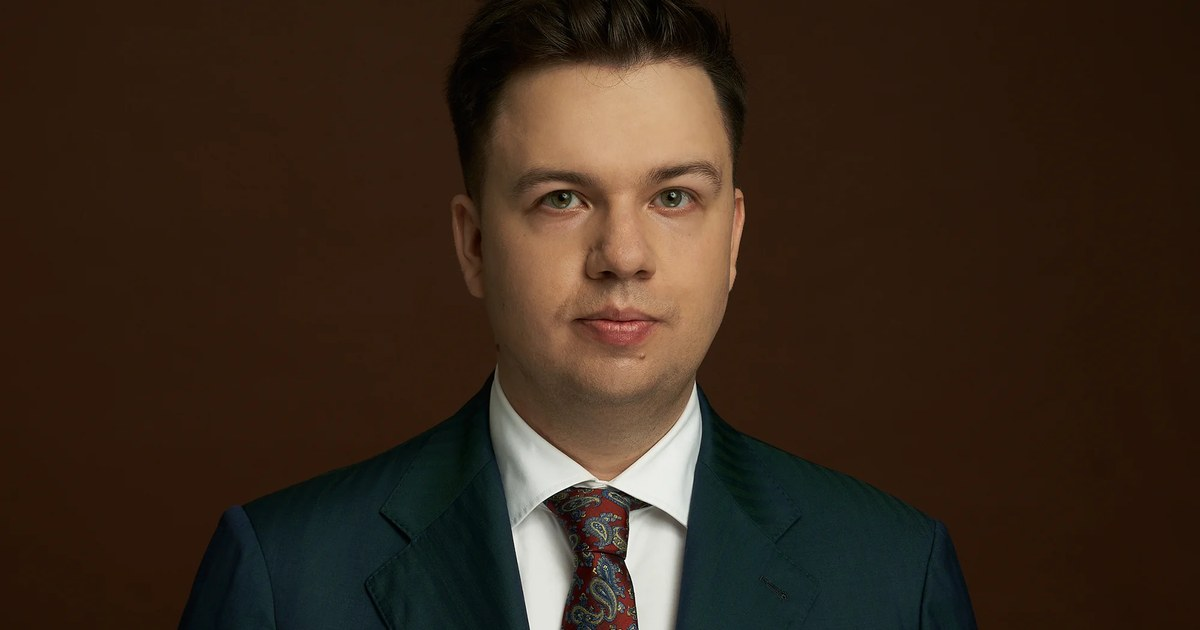
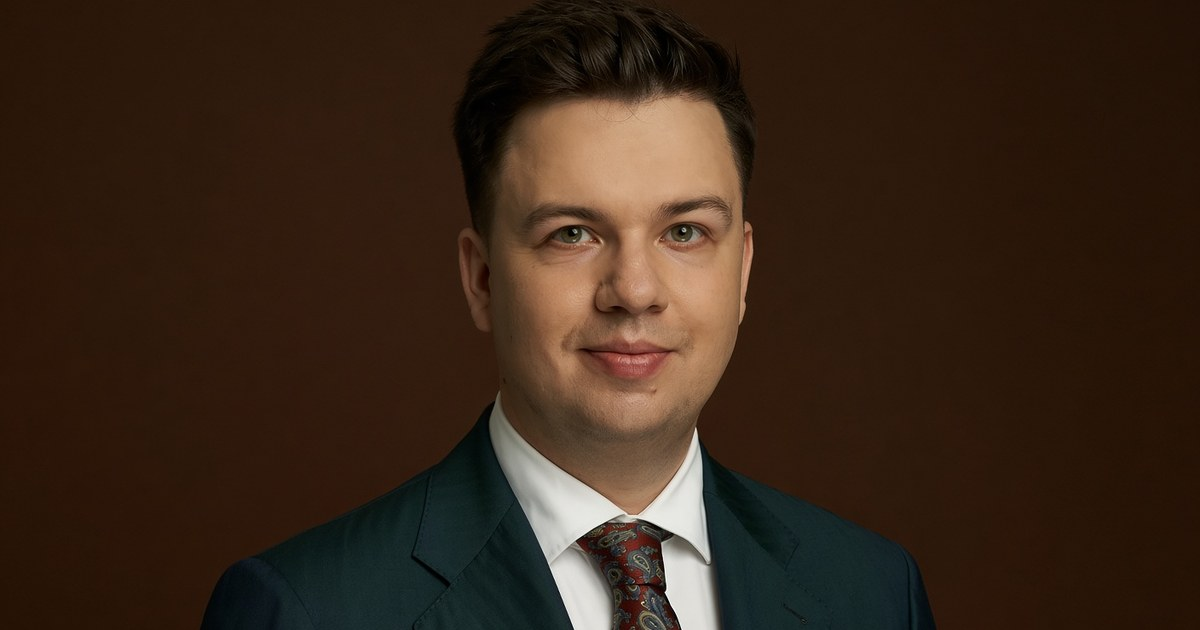
design: nowy portret w hero

Changed region(s): [[0.1233, 0.0, 0.8325, 1.0], [0.3083, 0.9651, 0.3392, 1.0]]

diff --git a/index.html b/index.html
@@ -22,7 +22,7 @@
   <link rel="preconnect" href="https://fonts.googleapis.com">
   <link rel="preconnect" href="https://fonts.gstatic.com" crossorigin>
   <link href="https://fonts.googleapis.com/css2?family=Cinzel:wght@400;500&family=Cormorant+Garamond:ital,wght@0,500;0,600;1,500&family=Inter:wght@400;500;600&display=swap" rel="stylesheet">
-  <link rel="stylesheet" href="/css/style.css?v=20260821f">
+  <link rel="stylesheet" href="/css/style.css?v=20260822">
 
   <script type="application/ld+json">
   {
@@ -86,7 +86,7 @@
     <section class="hero">
       <span class="hero__side" aria-hidden="true">Kancelaria Adwokacka · MMXXVI</span>
       <div class="hero__figure">
-        <img src="/assets/Filip-Konrad-kadr-1.webp" alt="Adwokat Konrad Filip — portret" width="2000" height="2000" fetchpriority="high">
+        <img src="/assets/Konrad-portret-hero.webp" alt="Adwokat Konrad Filip — portret" width="1408" height="1408" fetchpriority="high">
       </div>
       <div class="container">
         <div class="hero__content">
@@ -268,6 +268,6 @@
     <div class="footer__wordmark" aria-hidden="true">Konrad Filip</div>
   </footer>
 
-  <script src="/js/main.js?v=20260821f" defer></script>
+  <script src="/js/main.js?v=20260822" defer></script>
 </body>
 </html>

diff --git a/kontakt/index.html b/kontakt/index.html
@@ -20,7 +20,7 @@
   <link rel="preconnect" href="https://fonts.googleapis.com">
   <link rel="preconnect" href="https://fonts.gstatic.com" crossorigin>
   <link href="https://fonts.googleapis.com/css2?family=Cinzel:wght@400;500&family=Cormorant+Garamond:ital,wght@0,500;0,600;1,500&family=Inter:wght@400;500;600&display=swap" rel="stylesheet">
-  <link rel="stylesheet" href="/css/style.css?v=20260821f">
+  <link rel="stylesheet" href="/css/style.css?v=20260822">
 </head>
 <body>
 
@@ -128,6 +128,6 @@
     <div class="footer__wordmark" aria-hidden="true">Konrad Filip</div>
   </footer>
 
-  <script src="/js/main.js?v=20260821f" defer></script>
+  <script src="/js/main.js?v=20260822" defer></script>
 </body>
 </html>

diff --git a/o-mnie/index.html b/o-mnie/index.html
@@ -20,7 +20,7 @@
   <link rel="preconnect" href="https://fonts.googleapis.com">
   <link rel="preconnect" href="https://fonts.gstatic.com" crossorigin>
   <link href="https://fonts.googleapis.com/css2?family=Cinzel:wght@400;500&family=Cormorant+Garamond:ital,wght@0,500;0,600;1,500&family=Inter:wght@400;500;600&display=swap" rel="stylesheet">
-  <link rel="stylesheet" href="/css/style.css?v=20260821f">
+  <link rel="stylesheet" href="/css/style.css?v=20260822">
 </head>
 <body>
 
@@ -139,6 +139,6 @@
     <div class="footer__wordmark" aria-hidden="true">Konrad Filip</div>
   </footer>
 
-  <script src="/js/main.js?v=20260821f" defer></script>
+  <script src="/js/main.js?v=20260822" defer></script>
 </body>
 </html>

diff --git a/specjalizacje/index.html b/specjalizacje/index.html
@@ -20,7 +20,7 @@
   <link rel="preconnect" href="https://fonts.googleapis.com">
   <link rel="preconnect" href="https://fonts.gstatic.com" crossorigin>
   <link href="https://fonts.googleapis.com/css2?family=Cinzel:wght@400;500&family=Cormorant+Garamond:ital,wght@0,500;0,600;1,500&family=Inter:wght@400;500;600&display=swap" rel="stylesheet">
-  <link rel="stylesheet" href="/css/style.css?v=20260821f">
+  <link rel="stylesheet" href="/css/style.css?v=20260822">
 </head>
 <body>
 
@@ -176,6 +176,6 @@
     <div class="footer__wordmark" aria-hidden="true">Konrad Filip</div>
   </footer>
 
-  <script src="/js/main.js?v=20260821f" defer></script>
+  <script src="/js/main.js?v=20260822" defer></script>
 </body>
 </html>

diff --git a/css/style.css b/css/style.css
@@ -9,7 +9,7 @@
   --bg: #0d1714;             /* zieleń-czerń, baza całej strony */
   --bg-2: #12201c;           /* podniesione powierzchnie */
   --bg-3: #0a100e;           /* stopka, najgłębsza warstwa */
-  --hero-1: #2d1a0c;         /* brąz z tła portretu */
+  --hero-1: #2a1709;         /* brąz z tła portretu */
   --hero-2: #150903;         /* winieta portretu */
   --cream: #efe9dc;          /* tekst główny */
   --muted: #9b937f;          /* tekst drugorzędny */
